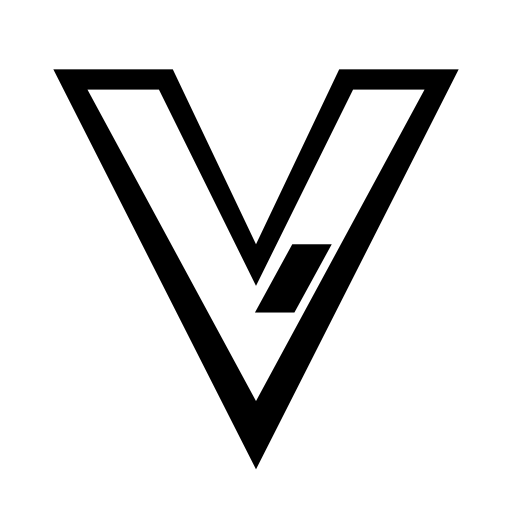
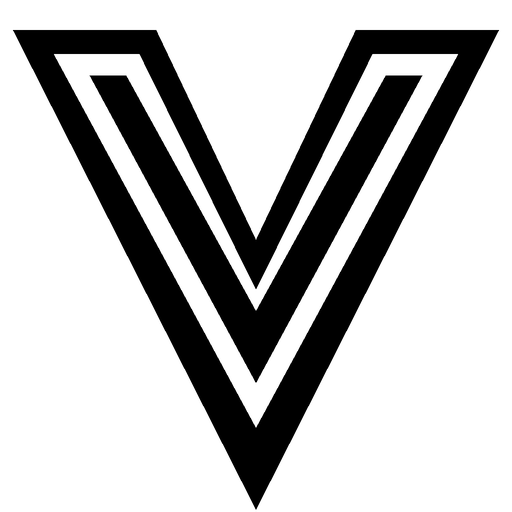
feat(brand): nest a second black V inside the outline
Keep the inner mark fully inside the counter so it no longer spills over the outer stroke.

Changed region(s): [[0.0312, 0.0312, 0.9688, 1.0]]

diff --git a/scripts/render_vibelution_icon.py b/scripts/render_vibelution_icon.py
@@ -1,0 +1,90 @@
+"""Rasterize the nested black-white Vibelution mark into PNG/ICO sizes."""
+
+from __future__ import annotations
+
+from pathlib import Path
+
+import numpy as np
+from PIL import Image
+
+VIEW = 48.0
+OUTER = np.array(
+    [(1.2, 2.8), (14.64, 2.8), (24.0, 22.48), (33.36, 2.8), (46.8, 2.8), (24.0, 47.8)],
+    dtype=np.float64,
+)
+HOLE = np.array(
+    [(5.04, 5.08), (24.0, 40.12), (42.96, 5.08), (34.92, 5.08), (24.0, 27.16), (13.08, 5.08)],
+    dtype=np.float64,
+)
+INNER = np.array(
+    [(8.4, 7.08), (11.84, 7.08), (24.0, 29.16), (36.16, 7.08), (39.6, 7.08), (24.0, 35.92)],
+    dtype=np.float64,
+)
+ICO_SIZES = (16, 20, 24, 32, 40, 48, 64, 256)
+
+
+def _evenodd(xx: np.ndarray, yy: np.ndarray, poly: np.ndarray) -> np.ndarray:
+    inside = np.zeros(xx.shape, dtype=bool)
+    x1 = poly[:, 0]
+    y1 = poly[:, 1]
+    x2 = np.roll(x1, -1)
+    y2 = np.roll(y1, -1)
+    for i in range(len(poly)):
+        dy = y2[i] - y1[i]
+        with np.errstate(divide="ignore", invalid="ignore"):
+            xinters = (x2[i] - x1[i]) * (yy - y1[i]) / dy + x1[i]
+        hit = ((y1[i] > yy) != (y2[i] > yy)) & (xx < xinters)
+        inside ^= hit
+    return inside
+
+
+def render_mark(size: int, *, background: tuple[int, int, int, int] | None = None, inset: float = 0.0) -> Image.Image:
+    aa = 3 if size <= 48 else 2
+    sample = size * aa
+    coords = (np.arange(sample, dtype=np.float64) + 0.5) / sample
+    usable = 1.0 - 2.0 * inset
+    xs = (coords - inset) / usable * VIEW
+    ys = (coords - inset) / usable * VIEW
+    xx, yy = np.meshgrid(xs, ys)
+    in_frame = (coords >= inset) & (coords <= 1.0 - inset)
+    in_x, in_y = np.meshgrid(in_frame, in_frame)
+    mark = (_evenodd(xx, yy, OUTER) ^ _evenodd(xx, yy, HOLE) | _evenodd(xx, yy, INNER)) & in_x & in_y
+    alpha = (mark.astype(np.uint8) * 255).reshape(sample, sample)
+    alpha_img = Image.fromarray(alpha, mode="L").resize((size, size), Image.Resampling.LANCZOS)
+    if background is None:
+        canvas = Image.new("RGBA", (size, size), (0, 0, 0, 0))
+    else:
+        canvas = Image.new("RGBA", (size, size), background)
+    canvas.paste(Image.new("RGBA", (size, size), (0, 0, 0, 255)), mask=alpha_img)
+    return canvas
+
+
+def main() -> None:
+    root = Path(__file__).resolve().parents[1]
+    icons = root / "assets" / "icons"
+    public = root / "web" / "public"
+    png_512 = render_mark(512)
+    png_192 = render_mark(192)
+    maskable = render_mark(512, background=(255, 255, 255, 255), inset=0.1)
+    png_512.save(icons / "vibelution-icon.png", format="PNG")
+    png_512.save(public / "vibelution-icon.png", format="PNG")
+    png_512.save(public / "vibelution-icon-512.png", format="PNG")
+    png_192.save(public / "vibelution-icon-192.png", format="PNG")
+    maskable.save(public / "vibelution-icon-maskable-512.png", format="PNG")
+    ico_images = [render_mark(size) for size in ICO_SIZES]
+    ico_images[-1].save(
+        icons / "vibelution.ico",
+        format="ICO",
+        append_images=ico_images[:-1],
+        sizes=[(size, size) for size in ICO_SIZES],
+    )
+    ico_images[-1].save(
+        public / "favicon.ico",
+        format="ICO",
+        append_images=ico_images[:-1],
+        sizes=[(size, size) for size in ICO_SIZES],
+    )
+
+
+if __name__ == "__main__":
+    main()

diff --git a/tests/test_app_icon_assets.py b/tests/test_app_icon_assets.py
@@ -1,0 +1,67 @@
+from pathlib import Path
+from struct import unpack
+
+from PIL import Image
+
+ROOT = Path(__file__).resolve().parents[1]
+SVG = ROOT / "assets" / "icons" / "vibelution-icon.svg"
+ICO = ROOT / "assets" / "icons" / "vibelution.ico"
+PNG = ROOT / "web" / "public" / "vibelution-icon.png"
+MASKABLE = ROOT / "web" / "public" / "vibelution-icon-maskable-512.png"
+
+
+def _ico_sizes(path: Path) -> list[tuple[int, int]]:
+    data = path.read_bytes()
+    _reserved, itype, count = unpack("<HHH", data[:6])
+    assert itype == 1
+    sizes: list[tuple[int, int]] = []
+    offset = 6
+    for _ in range(count):
+        width, height, _colors, _reserved2, _planes, _bitcount, _nbytes, _off = unpack(
+            "<BBBBHHII", data[offset : offset + 16]
+        )
+        sizes.append((width or 256, height or 256))
+        offset += 16
+    return sizes
+
+
+def test_nested_v_stays_inside_outline_counter() -> None:
+    from shapely.geometry import Polygon
+
+    hole = Polygon([(5.04, 5.08), (13.08, 5.08), (24.0, 27.16), (34.92, 5.08), (42.96, 5.08), (24.0, 40.12)])
+    inner = Polygon([(8.4, 7.08), (11.84, 7.08), (24.0, 29.16), (36.16, 7.08), (39.6, 7.08), (24.0, 35.92)])
+    assert hole.contains(inner)
+    assert hole.exterior.distance(inner) >= 0.9
+    text = SVG.read_text(encoding="utf-8")
+    assert text.count("<path") == 2
+    assert 'fill="#000"' in text
+    assert "d8a75b" not in text.lower()
+    assert "27.4 22.9" not in text
+
+
+def test_vibelution_ico_includes_taskbar_and_large_sizes() -> None:
+    sizes = set(_ico_sizes(ICO))
+    assert (16, 16) in sizes
+    assert (24, 24) in sizes
+    assert (32, 32) in sizes
+    assert (256, 256) in sizes
+
+
+def test_icon_png_keeps_transparent_field_and_solid_mark() -> None:
+    image = Image.open(PNG).convert("RGBA")
+    assert image.size == (512, 512)
+    assert image.getpixel((0, 0))[3] == 0
+    assert image.getpixel((256, 352))[3] > 200
+    assert image.getpixel((256, 352))[:3] == (0, 0, 0)
+
+
+def test_maskable_icon_is_opaque_black_on_white() -> None:
+    image = Image.open(MASKABLE).convert("RGBA")
+    assert image.size == (512, 512)
+    assert image.getpixel((0, 0))[:3] == (255, 255, 255)
+    assert image.getpixel((0, 0))[3] == 255
+    pixel = image.getpixel((256, 330))
+    assert pixel[3] == 255
+    assert pixel[0] < 20
+    assert pixel[1] < 20
+    assert pixel[2] < 20
